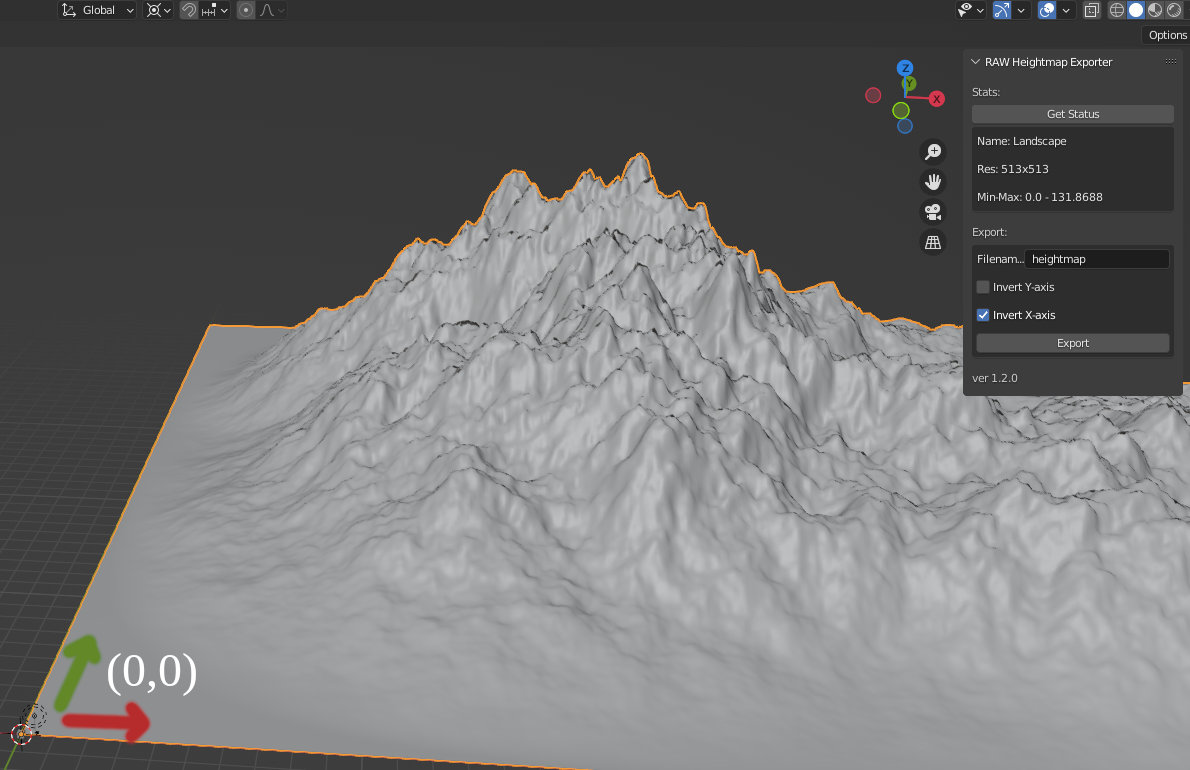
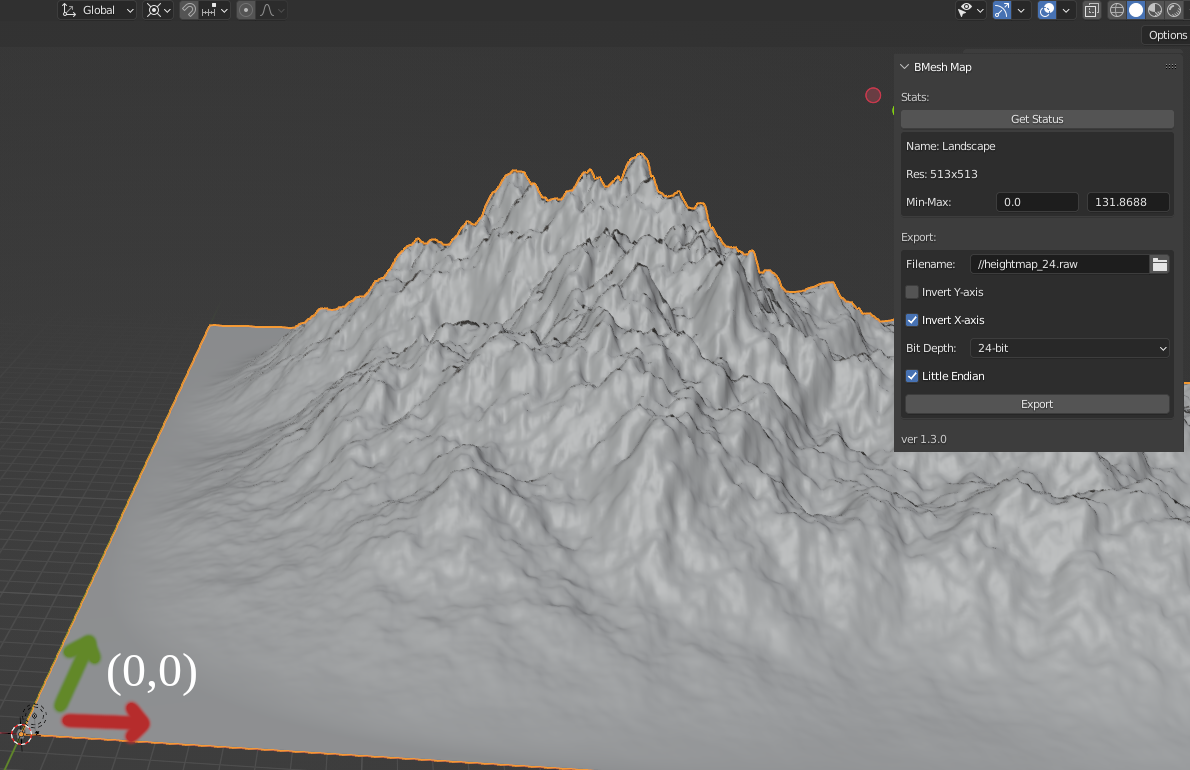
Update docs

Changed region(s): [[0.7462, 0.0623, 0.995, 0.5922], [0.8395, 0.2494, 0.9639, 0.2805], [0.9639, 0.3117, 0.995, 0.374]]

diff --git a/docs/README.md b/docs/README.md
@@ -8,10 +8,14 @@ Example Process
   * Subdivision to 129x129 (_NOTE_: subdivision must always be 1 higher)
     * **this value is the resolution (power of 2 + 1)**
   * Make sure the Object's Origin is at the bottom-left of your Mesh (then all vertices have positive positions on the x- and y-axis).
-* While in `Object Mode`, open the `Heightmap`-tools-tab,
-  * click `Get Status`: shows you info on your Mesh: check your resolution and note down your min and max values (i.e. the lowest and highest vertex)
-  * set a Filename: it will be saved in the same directory as your blend file
+* While in `Object Mode`, open the `BMesh Map`-tools-tab,
+  * click `Get Status`: shows you info on your Mesh: check your resolution and copy your min and max height values,
+  * specify the location and filename to save to
   * **for Godot (Zylann's Heightmap Plugin)**: make sure that `Invert X-axis` is toggled, else your map is mirrored on the x-axis
+  * choose your bit-depth
+    * 24-bit: good choice
+    * 16-bit: known to introduce precision issues
+  * choose your endianness (default: little)
   * click `Export` and you get your mesh as a heightmap file (`.raw`)
 * Done
 
@@ -23,7 +27,11 @@ Example Process
 In Godot, with Zylann's Heightmap Plugin, you import your `.raw` file like `.png`, `.exr`, etc.
 
 Import settings
-* Raw Endianess: `Little Endian`
+* Raw Endianess: The one you chose on your export
+* godot4 branch:
+  * Once [this PR](https://github.com/Zylann/godot_heightmap_plugin/pull/369) is merged, you can import 24-bit raw files. Bit-depth is auto-detected.
+* main branch (for Godot 3.x)
+  * expects 16-bit raw file; **does not support 24-bit import!**
 * `Min Height` + `Max Height`: take them from the Add-on Panel in Blender, see `Min-Max`.
 
 ![Imported map in Godot using Zylann's Heightmap Plugin](images/godot_zylanns_hm_plugin.png)

diff --git a/README.md b/README.md
@@ -1,10 +1,13 @@
 # Blender Mesh to RAW file Exporter
 
-Exports your selected object's mesh as a heightmap `.raw` file.
-* ushort (aka 16bit unsigned integer)
-* little-endianess
+Exports your selected object's mesh as a heightmap `.raw` file with
+* 16-bit or 24-bit unsigned integer value
+* endianness: little or big
 
 Works well with [Zylann's Heightmap Plugin](https://github.com/Zylann/godot_heightmap_plugin)
+
+
+![Mesh in Blender](docs/images/blender.png)
 
 
 ## Installation
@@ -14,6 +17,7 @@ Download the file and install like any Blender Add-on.
 Verified Compatibility
 | Add-on Version | Blender Versions |
 | --------------- | --------------- |
+| 1.3             | 3.3             |
 | 1.2             | 3.3             |
 | 1.1             | 3.3             |
 | 1.0             | 3.3             |
